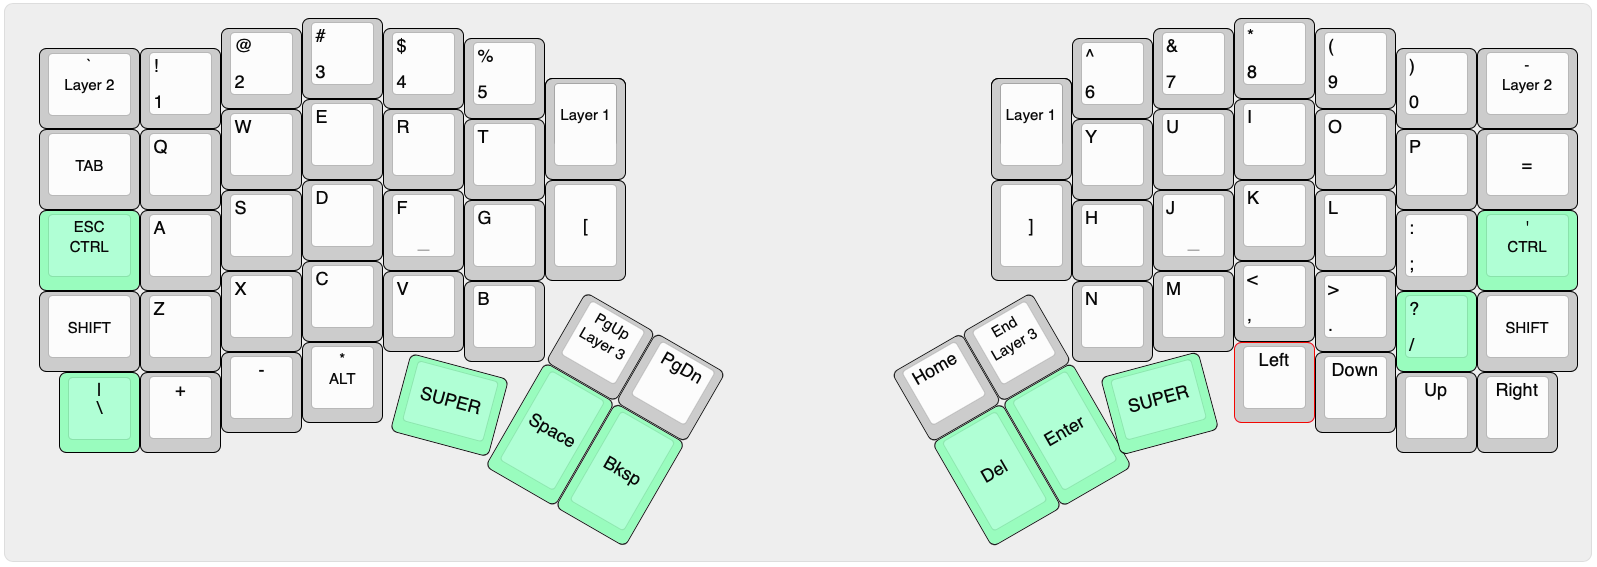
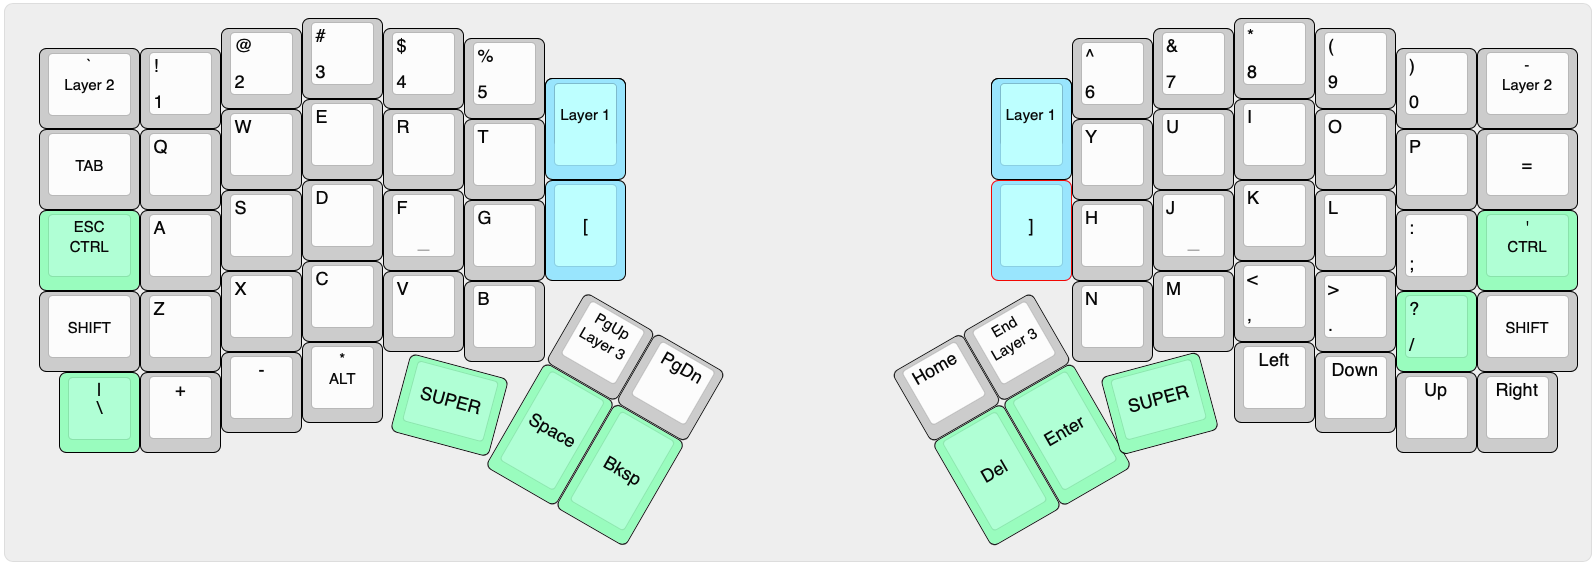
Improve legibility of keymap changes with colour coding

diff --git a/keyboards/redox/keymaps/nrichers/readme.md b/keyboards/redox/keymaps/nrichers/readme.md
@@ -4,6 +4,8 @@ This keymap modifies the [default keymap](https://github.com/qmk/qmk_firmware/tr
 
 ## Changes to the default keymap
 
+Marked in <span style="background-color:#99fcbe">light green</span>, these are changes to the keymap file:
+
 - Move `GUI` (`SUPER`) key to where default left `CTRL` and right `ALT` are - gives you two frequently used `CMD` keys on macOS where my brain expects them
 - Move `/?` into usual location next to right `SHIFT` - the default flash from Falbatech put `\|` here (might not be the Redox default?), which felt unintuitive
 - Put `\|` into bottom-left spot where `GUI` (`SUPER`) was - had to go somewhere and this bottom-left placement sort of balances with the almost bottom-right `/?`
@@ -16,7 +18,7 @@ This keymap modifies the [default keymap](https://github.com/qmk/qmk_firmware/tr
 
 ## Changes to the default layout
 
-These are simple physical keycap changes on the board that make reaching the `Layer 1` keys easier and that, subjectively, look cleaner visually:
+Marked in <span style="background-color:#99e6fc">light blue</span>, these are simple physical keycap changes on the board that make reaching the `Layer 1` keys easier and that, subjectively, look cleaner visually:
 
 - Increase the `Layer 1` key sizes from 1U to 1.25U
 - Decrease the 1.5 U key size for `[` and `]` to 1.25U
